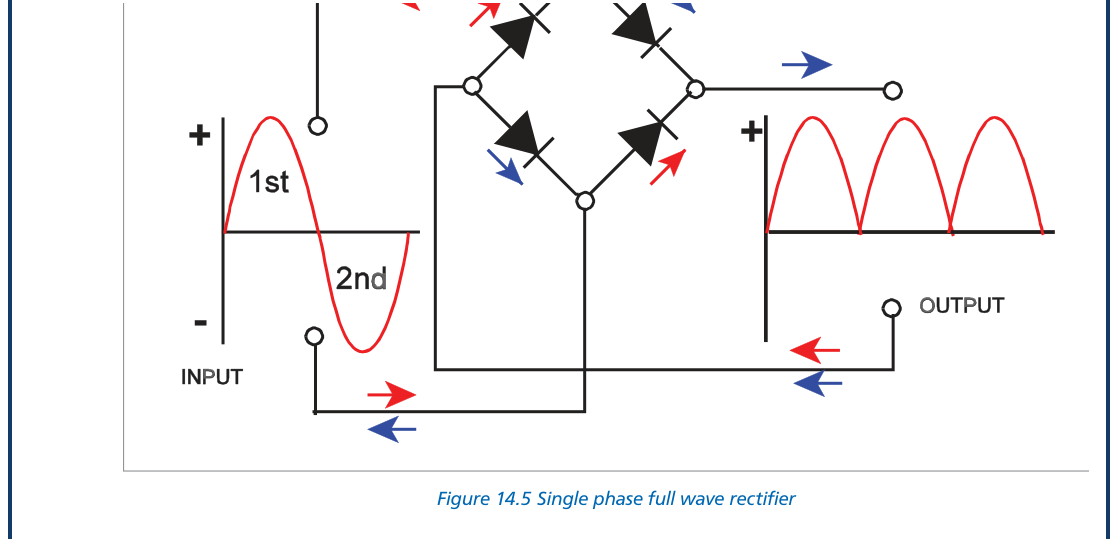
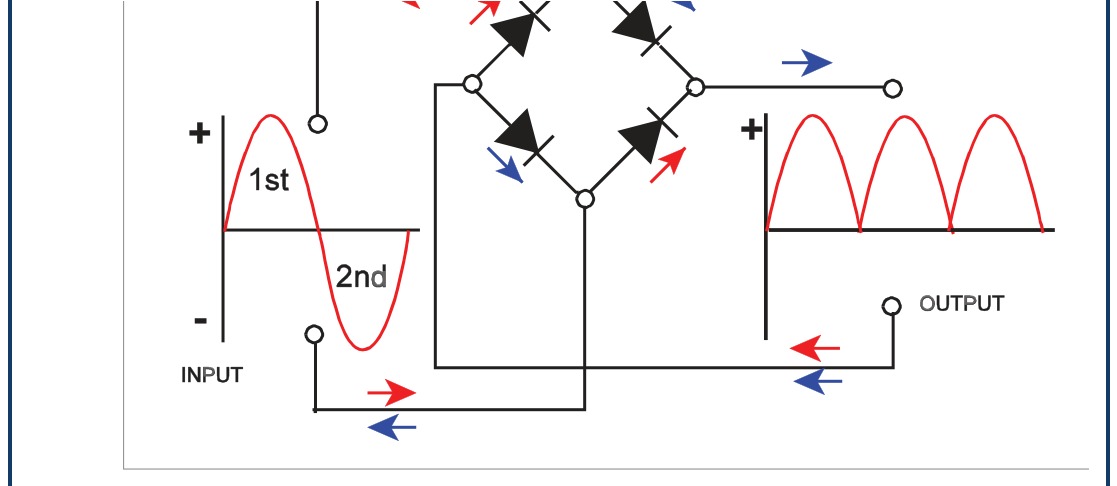
Electrics ch14 (transformers & rectifiers): 6 figure notes + block

diff --git a/frontend/src/app/data/aircraft-technical-figure-notes.ts b/frontend/src/app/data/aircraft-technical-figure-notes.ts
@@ -878,6 +878,38 @@ export const FIGURE_NOTES: Record<string, string[]> = {
     "The crew read it to see how the system is currently connected and to confirm that breakers have opened or closed as commanded.",
   ],
 
+  // ─── Electrics — Transformers & rectifiers (A.1.3) ───
+  "elecfig-ch14_01": [
+    "This shows how a transformer is built. Two separate coils — a primary and a secondary winding — are wound on a shared core made of thin, laminated soft-iron sheets.",
+    "AC fed into the primary creates a constantly changing magnetic flux in the core; the core guides that flux through the secondary, where it induces an AC output (mutual induction). The two windings are not electrically joined — energy passes across magnetically.",
+    "The core is laminated (thin insulated layers) to cut down wasteful eddy currents, and it must be AC: steady DC would make a constant flux that induces nothing in the secondary.",
+  ],
+  "elecfig-ch14_02": [
+    "This shows the two ways a transformer changes voltage, set by the turns ratio. In a STEP-UP transformer the secondary has MORE turns than the primary, so the output voltage is higher than the input.",
+    "In a STEP-DOWN transformer the secondary has FEWER turns, so the output voltage is lower. The rule is Vs/Vp = Ns/Np.",
+    "Because the power is (almost) unchanged, stepping the voltage UP steps the current DOWN, and vice-versa — you cannot get more power out than you put in.",
+  ],
+  "elecfig-ch14_03": [
+    "This shows an autotransformer, which uses a SINGLE tapped winding instead of two separate ones. Part of the winding is shared between the input and the output.",
+    "Tapping off fewer or more turns gives a step-down or step-up output, just like an ordinary transformer, following the same turns-ratio rule.",
+    "An autotransformer is lighter and cheaper because it has only one winding, but primary and secondary are electrically connected — so it gives no electrical isolation between input and output.",
+  ],
+  "elecfig-ch14_04": [
+    "This shows a half-wave rectifier — the simplest way to turn AC into DC. A single diode acts as a one-way valve: it lets current through on the positive half-cycle but blocks it on the negative half-cycle.",
+    "So the output is a series of positive humps with gaps where the negative halves have been removed — direct current (always positive), but very lumpy and only present half the time.",
+    "It is simple but wasteful (half the input is thrown away), so it is used only for small, undemanding loads.",
+  ],
+  "elecfig-ch14_05": [
+    "This shows a full-wave bridge rectifier, which uses FOUR diodes arranged in a diamond. On each half-cycle, two of the diodes conduct and route the current to the output the same way round.",
+    "So BOTH halves of the AC are used — the negative half is flipped up to positive — giving twice as many humps as a half-wave rectifier and a smoother, more continuous DC output.",
+    "Using the whole input makes it far more efficient, which is why bridge rectifiers are the standard choice.",
+  ],
+  "elecfig-ch14_06": [
+    "This shows a three-phase full-wave rectifier, the heart of a transformer-rectifier unit (TRU). Six diodes rectify all three phases (A, B, C), each pair handling the line voltage between two phases.",
+    "Because the three phases peak at different times, their rectified humps overlap and fill in each other's gaps — so the DC output at the top is very smooth, with only a small ripple and no need for heavy smoothing.",
+    "This is how an aircraft's 115 V AC is turned into smooth 28 V DC: a transformer steps the voltage down and this six-diode bridge rectifies it in the TRU.",
+  ],
+
   // ─── Airframes — Flight Controls: balance, tabs & trim (A.1.2) ───
   "atgfig-ch08_fig_04": [
     "This shows set-back hinge (inset hinge) aerodynamic balance. The hinge line is moved back from the control's leading edge, so part of the surface sits ahead of the hinge.",

diff --git a/frontend/src/app/data/aircraft-technical-notes.ts b/frontend/src/app/data/aircraft-technical-notes.ts
@@ -238,6 +238,12 @@ const NOTES: Record<string, SectionNote> = {
         "Power: TRUE (real) power = Vrms × Irms × cos φ, in watts (only the in-phase part does work). REACTIVE power = VAR/kVAR (90° out of phase, does no work). Power factor = cos φ = true/apparent power.",
         "Mutual induction: a changing current in one coil induces an EMF in a nearby coil — the basis of the transformer. Steady DC induces nothing once settled; only CHANGING current (AC, or switching) does.",
       ]},
+      { heading: "Transformers & rectifiers", figureTopics: ["Transformers & rectifiers"], points: [
+        "A transformer has a primary and a secondary winding on a laminated soft-iron core; AC in the primary makes a changing flux that induces AC in the secondary (mutual induction). It works on AC ONLY, not steady DC. Laminations cut eddy-current losses.",
+        "Turns ratio sets the voltage: Vs/Vp = Ns/Np. More secondary turns = STEP-UP (higher V, lower I); fewer = STEP-DOWN. Power is (nearly) unchanged, so volts up means amps down. An AUTOTRANSFORMER uses one tapped winding instead of two.",
+        "Rectifier = turns AC into DC using diodes (one-way valves). Half-wave (1 diode) passes only one half-cycle — lumpy. Full-wave bridge (4 diodes) uses both half-cycles — smoother.",
+        "A TRU (transformer-rectifier unit) steps the 115 V AC down and rectifies it (three-phase, 6-diode bridge) to give smooth 28 V DC — the normal way large aircraft make their DC from the AC system.",
+      ]},
       { heading: "AC generators & paralleling", figureTopics: ["AC generators & paralleling"], points: [
         "Aircraft alternators have a ROTATING FIELD and a STATIONARY armature (the opposite of a DC generator): the heavy power is taken from fixed windings, and only the small field current goes through slip rings — or none at all in a brushless type.",
         "Three-phase: three stator windings 120° apart give three overlapping sine waves. STAR (Y): has a neutral; line voltage = √3 × phase voltage, line current = phase current. DELTA: no neutral; line voltage = phase voltage, line current = √3 × phase current.",

diff --git a/frontend/src/app/data/aircraft-technical-electrics-figures.ts b/frontend/src/app/data/aircraft-technical-electrics-figures.ts
@@ -141,4 +141,12 @@ export const ATG_ELECTRICS_FIGURES: AtgElecFigureMeta[] = [
   E("AC distribution system", "13_04", "Electrical system display page"),
   E("AC distribution system", "13_06", "Four-generator electrical control panel"),
   E("AC distribution system", "13_07", "Four-generator electrical synoptic"),
+
+  // ── Ch14: Transformers & rectifiers ──
+  E("Transformers & rectifiers", "14_01", "Transformer construction"),
+  E("Transformers & rectifiers", "14_02", "Step-up vs step-down transformer"),
+  E("Transformers & rectifiers", "14_03", "Autotransformer"),
+  E("Transformers & rectifiers", "14_04", "Half-wave rectifier"),
+  E("Transformers & rectifiers", "14_05", "Full-wave bridge rectifier"),
+  E("Transformers & rectifiers", "14_06", "Three-phase rectifier (TRU)"),
 ];
